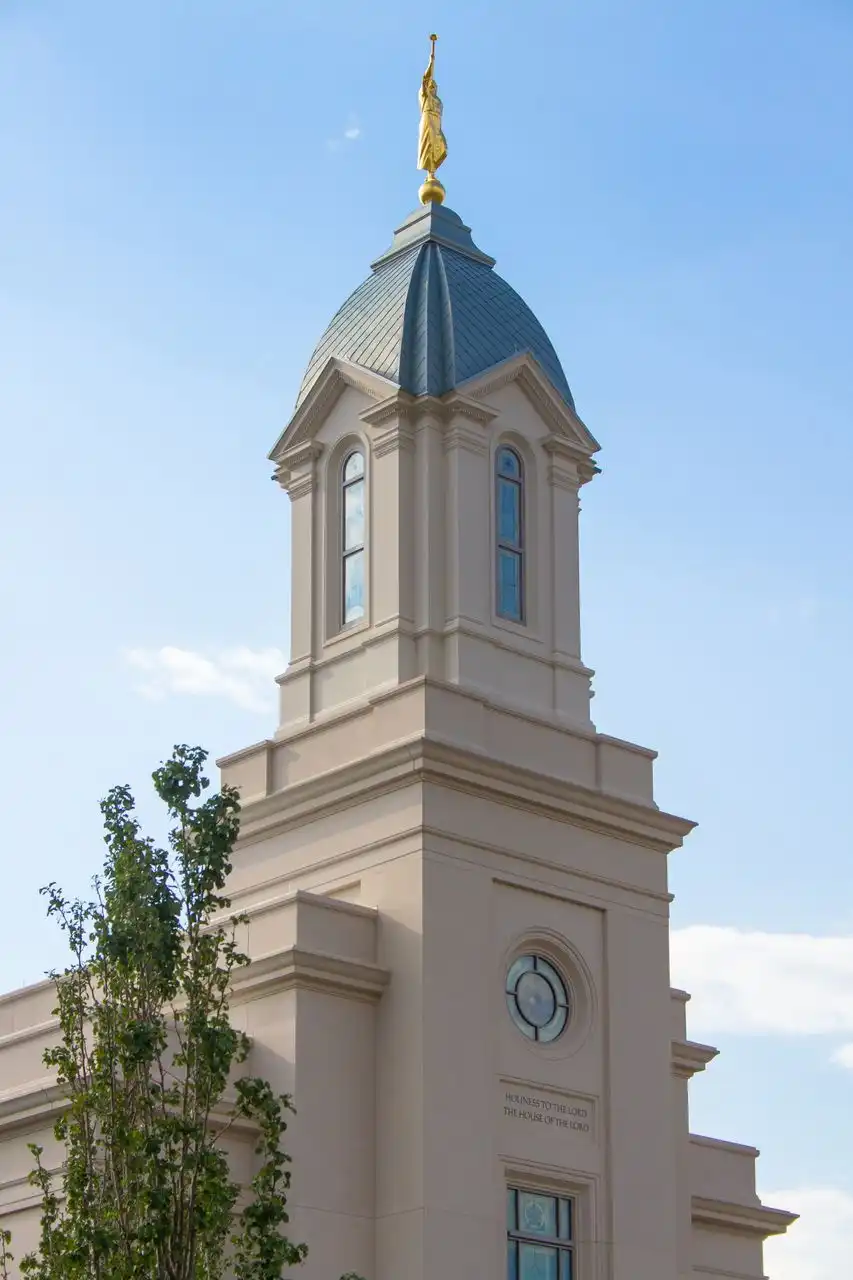
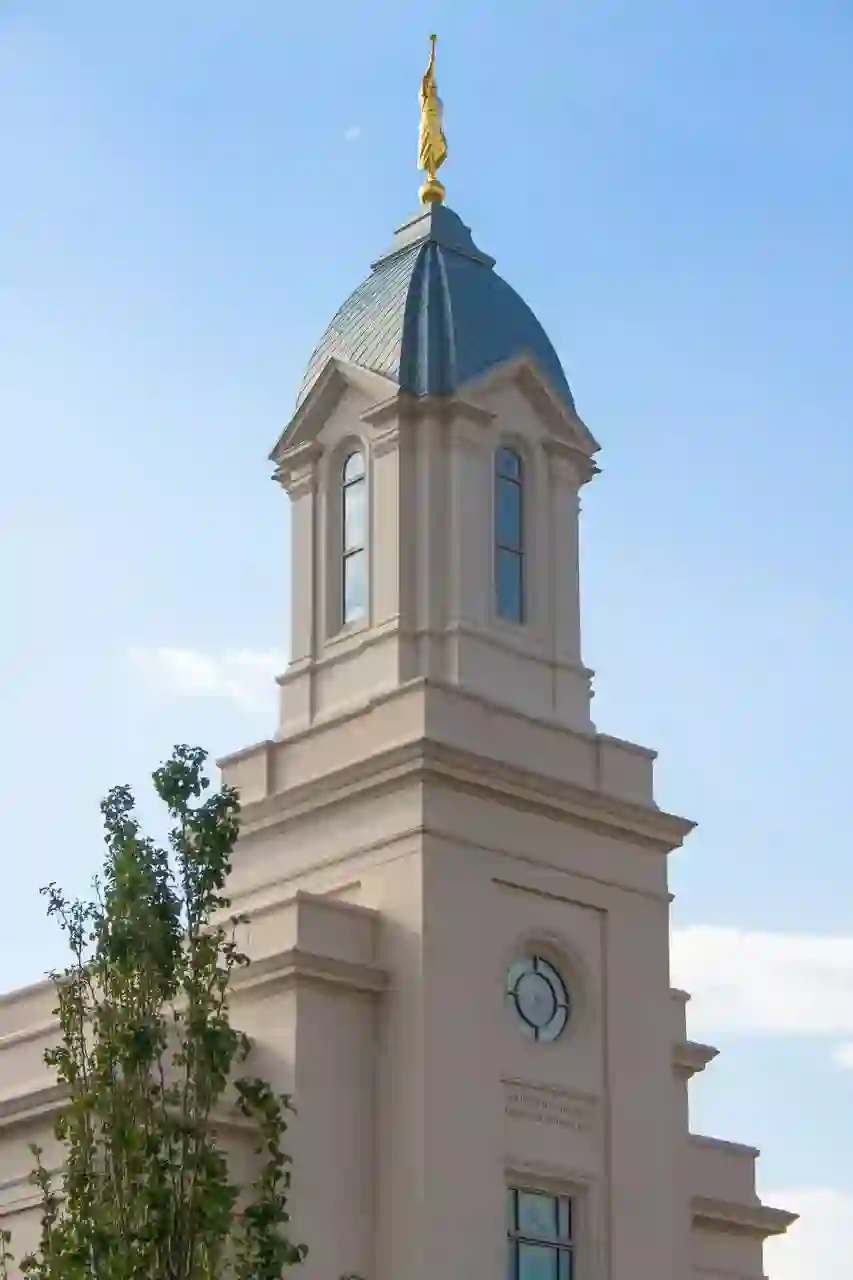
secondweek

diff --git a/temples.html b/temples.html
@@ -46,15 +46,15 @@
             <figcaption>Des Moines Temple </figcaption>
         </figure>
         <figure>
-            <img src="images/japan.jpeg" alt="Temple in Japan">
+            <img src="images/japan.webp" alt="Temple in Japan">
             <figcaption>Fukuoka Japan Temple </figcaption>
         </figure>
         <figure>
-            <img src="images/peru.jpeg" alt="Temple in Peru">
+            <img src="images/peru.webp" alt="Temple in Peru">
             <figcaption>Lima Peru Temple </figcaption>
         </figure>
         <figure>
-            <img src="images/southafrica.png" alt="Temple in South Africa">
+            <img src="images/southafrica.png" alt="South African Temple">
             <figcaption>Durban South Africa Temple </figcaption>
         </figure>
         <figure>
